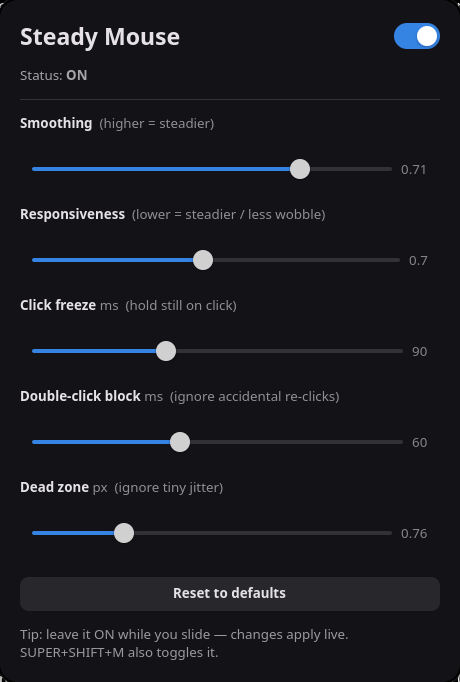
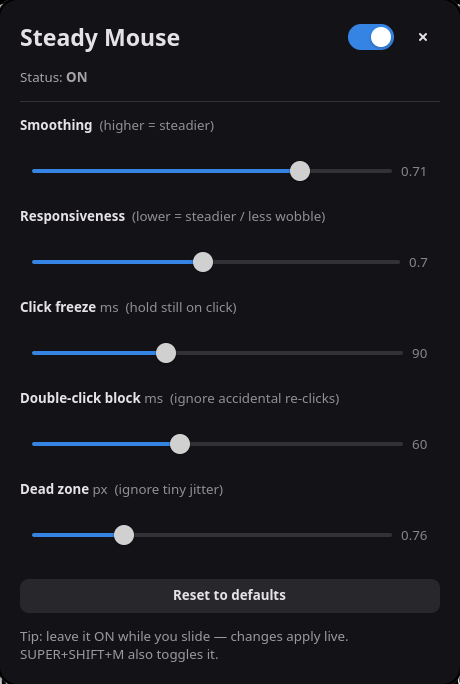
Steady Mouse: add a close (×) button + Escape-to-close to the panel
The GTK panel has no title bar on Hyprland, so add an × button in the
top-right (next to the on/off switch) and bind Escape to close — easier to
dismiss, especially with a tremor.

diff --git a/profiles/steady-mouse/tremor-gui.py b/profiles/steady-mouse/tremor-gui.py
@@ -6,7 +6,7 @@ On/off switch + live sliders. Changes apply instantly (writes config + SIGHUP to
 import json, os, signal, subprocess, sys
 import gi
 gi.require_version("Gtk", "4.0")
-from gi.repository import Gtk, GLib
+from gi.repository import Gtk, GLib, Gdk
 
 HOME = os.path.expanduser("~")
 DAEMON = f"{HOME}/.local/bin/tremor-filter.py"
@@ -80,6 +80,12 @@ class SteadyApp(Gtk.Application):
         self.switch.set_active(daemon_pid() is not None)
         self.switch.connect("state-set", self.on_switch)
         head.append(title); head.append(self.switch)
+        close = Gtk.Button.new_from_icon_name("window-close-symbolic")
+        close.set_valign(Gtk.Align.CENTER)
+        close.add_css_class("flat")
+        close.set_tooltip_text("Close")
+        close.connect("clicked", lambda *_: win.close())
+        head.append(close)
         box.append(head)
         self.status = Gtk.Label(); self.status.set_xalign(0.0)
         box.append(self.status)
@@ -110,6 +116,10 @@ class SteadyApp(Gtk.Application):
 
         GLib.timeout_add_seconds(1, self.poll)
         self.refresh_status()
+        key = Gtk.EventControllerKey()
+        key.connect("key-pressed",
+                    lambda _c, kv, *_: win.close() if kv == Gdk.KEY_Escape else False)
+        win.add_controller(key)
         win.present()
 
     def on_switch(self, sw, state):
